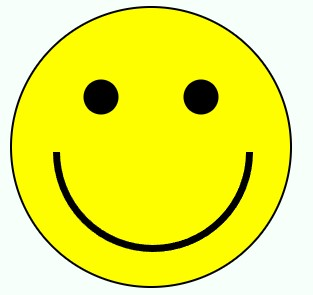
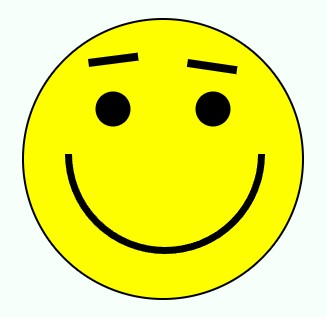
modified:   public/HappyFaceExample.jpg modified:   src/data/snippets/noteSnippets.jsx modified:   src/examples/HappyFaceExample.jsx

diff --git a/src/data/snippets/noteSnippets.jsx b/src/data/snippets/noteSnippets.jsx
@@ -1,5 +1,13 @@
 export const noteSnippets = {
-    DataViz2018_1 : `
+    DataViz2018_1 :  `
+    This is the Ghostscript Tiger.
+    
+    It's one of the earlier examples which used to 
+    be commonly referred to demonstrate the 
+    capabilities of the svg image format.
+`
+,
+    DataViz2018_2 : `
 <svg 
     width="391" 
     height="391" 
@@ -17,38 +25,7 @@ export const noteSnippets = {
 </svg>
 `,
 
-    DataViz2018_2 :  `
-    This is the Ghostscript Tiger.
-    
-    It's one of the earlier examples which used to 
-    be commonly referred to demonstrate the 
-    capabilities of the svg image format.
-`
-,
-    DataViz2018_3 : `
-<path 
-    d="M20,230 Q40,205 50,230 T90,230" 
-    fill="none" 
-    stroke="darkgoldenrod" 
-    stroke-width="5"
-/>
-
-
-This is a simple bezier curved svg path.
-
-
-A <path> is the most general shape that can be 
-used in SVG. Using a path element, you can draw 
-rectangles, circles, ellipses, polylines, polygons, 
-bezier curves, quadratic curves, and more.
-
-
-d - A list of points and other information about how to draw the path.  
-Contains a series of five commands and parameters used by those commands.
-`    
-,
-
-    DataViz2018_4 : `
+DataViz2018_3 : `
 const transformedCircles = [];
 
 for (let i = -25; i <= radius; i += radius) {
@@ -71,4 +48,26 @@ for (let i = -25; i <= radius; i += radius) {
 ,
 
 
+    DataViz2018_4 : `
+<path 
+    d="M20,230 Q40,205 50,230 T90,230" 
+    fill="none" 
+    stroke="darkgoldenrod" 
+    stroke-width="5"
+/>
+
+
+This is a simple bezier curved svg path.
+
+
+A <path> is the most general shape that can be 
+used in SVG. Using a path element, you can draw 
+rectangles, circles, ellipses, polylines, polygons, 
+bezier curves, quadratic curves, and more.
+
+
+d - A list of points and other information about how to draw the path.  
+Contains a series of five commands and parameters used by those commands.
+`    
+,
 }

diff --git a/src/examples/HappyFaceExample.jsx b/src/examples/HappyFaceExample.jsx
@@ -18,14 +18,30 @@ export default function HappyFaceExample() {
 
         for(let x = faceInitialX - 50; x <= faceInitialX + 100; x += 100)
             eyes.push(
-                <circle
-                    key={nanoid()}
-                    className="eye"
-                    cx={x}
-                    cy={faceInitialY-50}
-                    r={faceRadius/8}
-                >
-                </circle>
+                <>
+                        <rect
+                            key={nanoid()}
+                            className="eye"
+                            width={50}
+                            height={8}
+                            transform={`
+                                translate(
+                                    ${x-25} ${faceInitialY-100}
+                                )
+
+                                rotate(${x > faceInitialX ?  x/25 : -x/15})
+                            `}
+                        >
+                        </rect>
+                        <circle
+                            key={nanoid()}
+                            className="eyebrow"
+                            cx={x}
+                            cy={faceInitialY-50}
+                            r={faceRadius/8}
+                        >
+                        </circle>
+                </>
             );
         
         return eyes;
@@ -34,7 +50,7 @@ export default function HappyFaceExample() {
 
     const renderMouth = () => {
         return(
-            <g  transform="translate(162, 175) rotate(90) ">
+            <g  transform="translate(162, 165) rotate(90) ">
                 <path
                     d={arc()({
                         innerRadius: 93,
